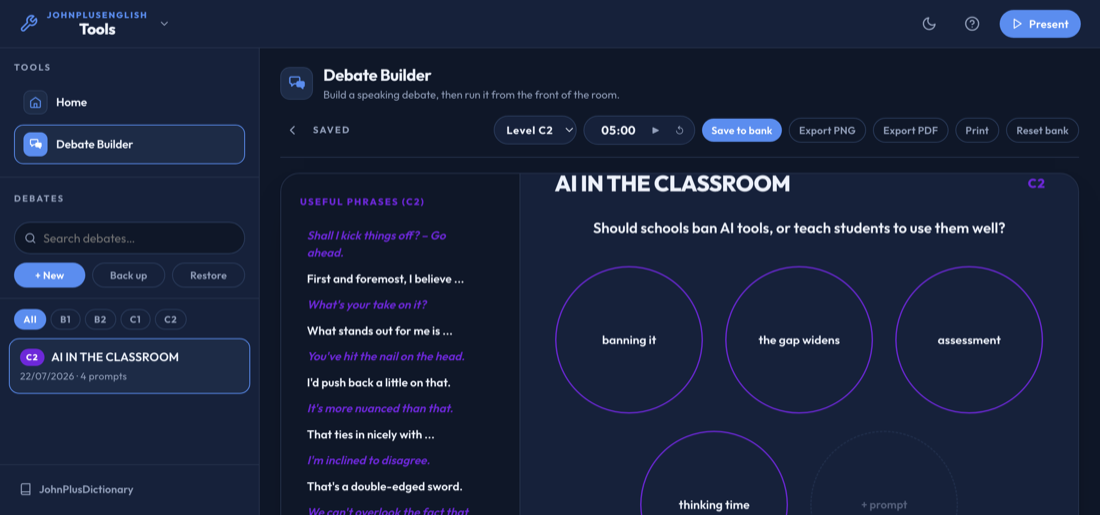
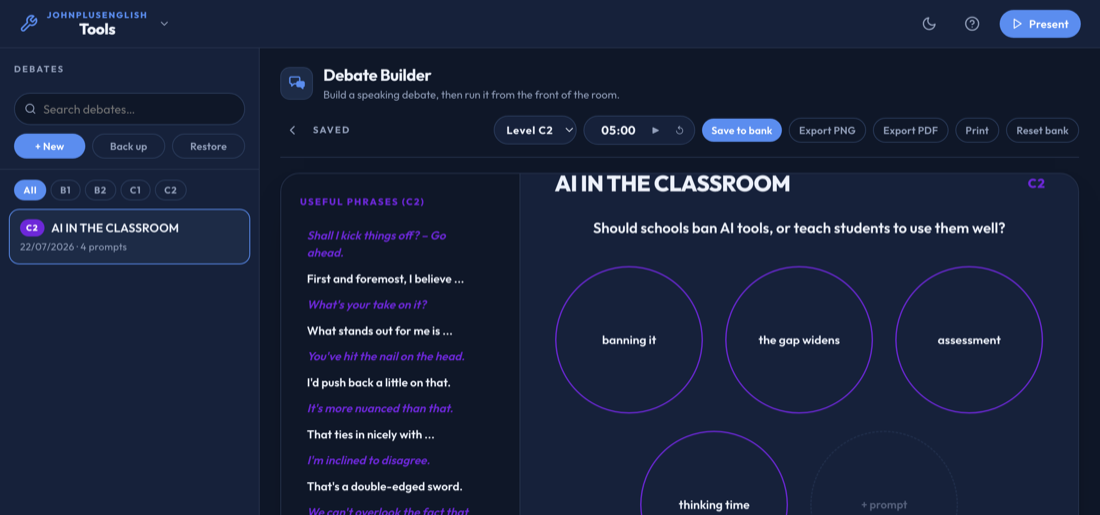
Navigation is the topbar dropdown only
The sidebar Tools list duplicated the dropdown, and the sidebar's dictionary
link duplicated the dropdown's. Both removed. The sidebar is now purely the
tool's own space: search, New, Back up, Restore, level filter and the debate
list.

With no tool open there is nothing for it to hold, so on the home view it
collapses to zero width and the content takes the full page. That rides the
transition already on .app, so it slides rather than jumping, and it uses its
own class rather than the tool's .side-collapsed: John's manual collapse
preference and its stored value are never touched. Verified by collapsing with
the chevron, going home and back, and confirming the preference survived.

The build now asserts nothing goes back in the sidebar and that the dropdown
lists exactly three entries.

Also fixed a silent break this caused: make_preview.py reached the tool by
clicking the sidebar nav item, which no longer exists, so it quietly
photographed the home view. The preview on the home page became a picture of
the home page. It now clicks through the dropdown, and verifies with --dump-dom
that the home view really is hidden before taking the shot, so this fails loudly
next time instead of shipping a recursive screenshot.

diff --git a/index.html b/index.html
@@ -514,32 +514,17 @@ a.btn{text-decoration:none}
 .btn svg{width:14px;height:14px;flex-shrink:0}
 .btn.big svg{width:15px;height:15px}
 
-/* Sidebar nav */
-.tools-nav{padding:14px 16px 12px;border-bottom:1px solid var(--line)}
 .jt-label{font-size:10.5px;letter-spacing:.16em;text-transform:uppercase;
   color:var(--muted);font-weight:700;margin-bottom:9px}
-.tool-item{display:flex;align-items:center;gap:10px;padding:8px 10px;border-radius:11px;
-  border:1px solid transparent;text-decoration:none;color:var(--ink);margin-bottom:3px;
-  transition:background .12s,border-color .12s}
-.tool-item:hover{background:var(--soft)}
-.tool-item.active{background:var(--soft);border-color:var(--accent)}
-.ti-icon{width:28px;height:28px;border-radius:8px;flex-shrink:0;display:grid;place-items:center;
-  background:var(--soft);border:1px solid var(--soft-line);color:var(--accent)}
-.tool-item.active .ti-icon{background:var(--accent);border-color:var(--accent);color:#fff}
-.ti-icon svg{width:15px;height:15px;display:block}
-.ti-name{font-size:13.5px;font-weight:600;letter-spacing:-.01em}
 
-/* The tool's own sidebar controls, shown only while the tool is open. */
+/* The sidebar belongs to the tool. On the home view there is no open tool, so
+   it slides away and the content takes the full width. Uses its own class, not
+   the tool's .side-collapsed, so John's manual collapse preference is untouched.
+   .app already carries transition:grid-template-columns, so this animates. */
 #debatesSection{display:flex;flex-direction:column;flex:1;min-height:0}
 #debatesSection[hidden]{display:none}
-
-/* margin-top:auto keeps this pinned to the bottom on the home view, where the
-   debates section is hidden and nothing else pushes it down. */
-.side-foot{padding:10px 12px 12px;border-top:1px solid var(--line);flex-shrink:0;margin-top:auto}
-.side-foot a{display:flex;align-items:center;gap:8px;text-decoration:none;font-size:12.5px;
-  font-weight:600;color:var(--muted);padding:8px 10px;border-radius:10px;transition:.12s}
-.side-foot a:hover{background:var(--soft);color:var(--accent)}
-.side-foot a svg{width:15px;height:15px;flex-shrink:0}
+.app.jpt-nosidebar{grid-template-columns:0 1fr}
+.app.jpt-nosidebar aside{border-right:none;overflow:hidden;opacity:0;pointer-events:none}
 
 /* Named tool header, identical rhythm in both views so nothing jumps. */
 .tool-head{display:flex;align-items:center;gap:12px;margin-bottom:16px}
@@ -597,7 +582,6 @@ a.btn{text-decoration:none}
 .panel-actions .note{font-size:12.5px;color:var(--muted);font-weight:500}
 
 @media (max-width:900px){
-  .tools-nav{padding:12px 14px 10px}
   .th-text p{display:none}
   .split{grid-template-columns:1fr;gap:24px}
   .panel{padding:22px 18px;border-radius:16px}
@@ -612,7 +596,7 @@ a.btn{text-decoration:none}
   .brand-title .k{display:none}
   .brand-title .b{font-size:14px}
 }
-@media print{.tool-head,.tools-nav,.side-foot,.popmenu{display:none!important}}
+@media print{.tool-head,.popmenu{display:none!important}}
 @media (prefers-reduced-motion:reduce){.view,.popmenu{animation:none}}
 /* /jpt:chrome */
 </style>
@@ -655,17 +639,6 @@ a.btn{text-decoration:none}
 
 <div class="app" id="app">
   <aside>
-    <!-- jpt:toolsnav -->
-    <div class="tools-nav">
-      <div class="jt-label">Tools</div>
-      <a class="tool-item" href="/" data-view="home">
-        <span class="ti-icon"><svg viewBox="0 0 24 24" fill="none" stroke="currentColor" stroke-linecap="round" stroke-linejoin="round" aria-hidden="true" stroke-width="2"><path d="M3 9.5 12 3l9 6.5V20a1.5 1.5 0 0 1-1.5 1.5h-15A1.5 1.5 0 0 1 3 20z"/><path d="M9.5 21.5v-7h5v7"/></svg></span><span class="ti-name">Home</span>
-      </a>
-      <a class="tool-item" href="/debate-builder" data-view="tool">
-        <span class="ti-icon"><svg viewBox="0 0 24 24" fill="none" stroke="currentColor" stroke-linecap="round" stroke-linejoin="round" aria-hidden="true" stroke-width="1.9"><path d="M14.6 3H4.3A1.8 1.8 0 0 0 2.5 4.8v5.9a1.8 1.8 0 0 0 1.8 1.8h.8v3.1l3.3-3.1h6.2a1.8 1.8 0 0 0 1.8-1.8V4.8A1.8 1.8 0 0 0 14.6 3z"/><path d="M20.2 9.6h-6.1A1.6 1.6 0 0 0 12.5 11.2v3.6a1.6 1.6 0 0 0 1.6 1.6h3.6l3 2.7v-2.7h.5a1.6 1.6 0 0 0 1.3-1.6v-3.6a1.6 1.6 0 0 0-1.6-1.6z" fill="currentColor" stroke="currentColor"/></svg></span><span class="ti-name">Debate Builder</span>
-      </a>
-    </div>
-    <!-- /jpt:toolsnav -->
     <div id="debatesSection">
     <div class="side-top">
       <!-- jpt:debateslabel --><div class="jt-label" style="margin-bottom:9px">Debates</div><!-- /jpt:debateslabel -->
@@ -683,13 +656,6 @@ a.btn{text-decoration:none}
     <div class="lvl-filter" id="lvlFilter"></div>
     <div class="side-list" id="sideList"></div>
     </div>
-    <!-- jpt:sidefoot -->
-    <div class="side-foot">
-      <a href="https://johnplusdictionary.com" target="_blank" rel="noopener">
-        <svg viewBox="0 0 24 24" fill="none" stroke="currentColor" stroke-linecap="round" stroke-linejoin="round" aria-hidden="true" stroke-width="2"><path d="M4 19.5A2.5 2.5 0 0 1 6.5 17H20"/><path d="M6.5 2H20v20H6.5A2.5 2.5 0 0 1 4 19.5v-15A2.5 2.5 0 0 1 6.5 2z"/></svg>JohnPlusDictionary
-      </a>
-    </div>
-    <!-- /jpt:sidefoot -->
   </aside>
 
   <main>
@@ -2220,6 +2186,7 @@ if (localStorage.getItem('c2_debate_side_collapsed') === '1') toggleSide();
   var debates  = document.getElementById('debatesSection');
   var menu     = document.getElementById('toolsMenu');
   var brandBtn = document.getElementById('brandBtn');
+  var app      = document.getElementById('app');
   var current  = null;
 
   function setView(name, push) {
@@ -2231,16 +2198,15 @@ if (localStorage.getItem('c2_debate_side_collapsed') === '1') toggleSide();
     toolView.hidden = !tool;
     homeView.hidden = tool;
     if (debates) debates.hidden = !tool;
+    // The sidebar is the tool's; on home it collapses away.
+    if (app) app.classList.toggle('jpt-nosidebar', !tool);
     // Tool-only topbar actions (help, Present) have no meaning on the home view.
     Array.prototype.forEach.call(document.querySelectorAll('.jpt-toolonly'),
       function (el) { el.hidden = !tool; });
 
-    Array.prototype.forEach.call(document.querySelectorAll('[data-view]'), function (el) {
-      var on = el.dataset.view === name;
-      if (el.classList.contains('tool-item')) el.classList.toggle('active', on);
-      if (el.getAttribute('role') === 'menuitem') el.setAttribute('aria-current', String(on));
-      if (on && el.classList.contains('tool-item')) el.setAttribute('aria-current', 'page');
-      else if (el.classList.contains('tool-item')) el.removeAttribute('aria-current');
+    // Navigation is the dropdown only, so this just marks the current entry.
+    Array.prototype.forEach.call(document.querySelectorAll('.pm-item[data-view]'), function (el) {
+      el.setAttribute('aria-current', String(el.dataset.view === name));
     });
 
     document.title = TITLES[name];

diff --git a/build.py b/build.py
@@ -95,18 +95,8 @@ BRAND = f'''<!-- jpt:brand -->
   </div>
   <!-- /jpt:brand -->'''
 
-NAV = f'''<!-- jpt:toolsnav -->
-    <div class="tools-nav">
-      <div class="jt-label">Tools</div>
-      <a class="tool-item" href="/" data-view="home">
-        <span class="ti-icon">{HOME}</span><span class="ti-name">Home</span>
-      </a>
-      <a class="tool-item" href="{TOOL_URL}" data-view="tool">
-        <span class="ti-icon">{PROMPTS}</span><span class="ti-name">Debate Builder</span>
-      </a>
-    </div>
-    <!-- /jpt:toolsnav -->
-    '''
+# Navigation lives in the topbar dropdown only. The sidebar is the tool's own
+# space (its debate list), and collapses away on the home view.
 
 TOOL_HEAD = f'''<!-- jpt:toolhead -->
       <div class="tool-head">
@@ -119,14 +109,7 @@ TOOL_HEAD = f'''<!-- jpt:toolhead -->
       <!-- /jpt:toolhead -->
       '''
 
-FOOT = f'''<!-- jpt:sidefoot -->
-    <div class="side-foot">
-      <a href="https://johnplusdictionary.com" target="_blank" rel="noopener">
-        {BOOK}JohnPlusDictionary
-      </a>
-    </div>
-    <!-- /jpt:sidefoot -->
-  '''
+# The dictionary link is in the dropdown, so the sidebar does not repeat it.
 
 CSS = '''
 /* jpt:chrome */
@@ -165,32 +148,17 @@ a.btn{text-decoration:none}
 .btn svg{width:14px;height:14px;flex-shrink:0}
 .btn.big svg{width:15px;height:15px}
 
-/* Sidebar nav */
-.tools-nav{padding:14px 16px 12px;border-bottom:1px solid var(--line)}
 .jt-label{font-size:10.5px;letter-spacing:.16em;text-transform:uppercase;
   color:var(--muted);font-weight:700;margin-bottom:9px}
-.tool-item{display:flex;align-items:center;gap:10px;padding:8px 10px;border-radius:11px;
-  border:1px solid transparent;text-decoration:none;color:var(--ink);margin-bottom:3px;
-  transition:background .12s,border-color .12s}
-.tool-item:hover{background:var(--soft)}
-.tool-item.active{background:var(--soft);border-color:var(--accent)}
-.ti-icon{width:28px;height:28px;border-radius:8px;flex-shrink:0;display:grid;place-items:center;
-  background:var(--soft);border:1px solid var(--soft-line);color:var(--accent)}
-.tool-item.active .ti-icon{background:var(--accent);border-color:var(--accent);color:#fff}
-.ti-icon svg{width:15px;height:15px;display:block}
-.ti-name{font-size:13.5px;font-weight:600;letter-spacing:-.01em}
 
-/* The tool's own sidebar controls, shown only while the tool is open. */
+/* The sidebar belongs to the tool. On the home view there is no open tool, so
+   it slides away and the content takes the full width. Uses its own class, not
+   the tool's .side-collapsed, so John's manual collapse preference is untouched.
+   .app already carries transition:grid-template-columns, so this animates. */
 #debatesSection{display:flex;flex-direction:column;flex:1;min-height:0}
 #debatesSection[hidden]{display:none}
-
-/* margin-top:auto keeps this pinned to the bottom on the home view, where the
-   debates section is hidden and nothing else pushes it down. */
-.side-foot{padding:10px 12px 12px;border-top:1px solid var(--line);flex-shrink:0;margin-top:auto}
-.side-foot a{display:flex;align-items:center;gap:8px;text-decoration:none;font-size:12.5px;
-  font-weight:600;color:var(--muted);padding:8px 10px;border-radius:10px;transition:.12s}
-.side-foot a:hover{background:var(--soft);color:var(--accent)}
-.side-foot a svg{width:15px;height:15px;flex-shrink:0}
+.app.jpt-nosidebar{grid-template-columns:0 1fr}
+.app.jpt-nosidebar aside{border-right:none;overflow:hidden;opacity:0;pointer-events:none}
 
 /* Named tool header, identical rhythm in both views so nothing jumps. */
 .tool-head{display:flex;align-items:center;gap:12px;margin-bottom:16px}
@@ -248,7 +216,6 @@ a.btn{text-decoration:none}
 .panel-actions .note{font-size:12.5px;color:var(--muted);font-weight:500}
 
 @media (max-width:900px){
-  .tools-nav{padding:12px 14px 10px}
   .th-text p{display:none}
   .split{grid-template-columns:1fr;gap:24px}
   .panel{padding:22px 18px;border-radius:16px}
@@ -263,7 +230,7 @@ a.btn{text-decoration:none}
   .brand-title .k{display:none}
   .brand-title .b{font-size:14px}
 }
-@media print{.tool-head,.tools-nav,.side-foot,.popmenu{display:none!important}}
+@media print{.tool-head,.popmenu{display:none!important}}
 @media (prefers-reduced-motion:reduce){.view,.popmenu{animation:none}}
 /* /jpt:chrome */
 '''
@@ -285,6 +252,7 @@ ROUTER = '''<!-- jpt:router -->
   var debates  = document.getElementById('debatesSection');
   var menu     = document.getElementById('toolsMenu');
   var brandBtn = document.getElementById('brandBtn');
+  var app      = document.getElementById('app');
   var current  = null;
 
   function setView(name, push) {
@@ -296,16 +264,15 @@ ROUTER = '''<!-- jpt:router -->
     toolView.hidden = !tool;
     homeView.hidden = tool;
     if (debates) debates.hidden = !tool;
+    // The sidebar is the tool's; on home it collapses away.
+    if (app) app.classList.toggle('jpt-nosidebar', !tool);
     // Tool-only topbar actions (help, Present) have no meaning on the home view.
     Array.prototype.forEach.call(document.querySelectorAll('.jpt-toolonly'),
       function (el) { el.hidden = !tool; });
 
-    Array.prototype.forEach.call(document.querySelectorAll('[data-view]'), function (el) {
-      var on = el.dataset.view === name;
-      if (el.classList.contains('tool-item')) el.classList.toggle('active', on);
-      if (el.getAttribute('role') === 'menuitem') el.setAttribute('aria-current', String(on));
-      if (on && el.classList.contains('tool-item')) el.setAttribute('aria-current', 'page');
-      else if (el.classList.contains('tool-item')) el.removeAttribute('aria-current');
+    // Navigation is the dropdown only, so this just marks the current entry.
+    Array.prototype.forEach.call(document.querySelectorAll('.pm-item[data-view]'), function (el) {
+      el.setAttribute('aria-current', String(el.dataset.view === name));
     });
 
     document.title = TITLES[name];
@@ -399,6 +366,8 @@ def need(html, needle, what):
 def build(html):
     for tag in ('jpt:brand', 'jpt:toolsnav', 'jpt:sidefoot', 'jpt:toolhead',
                 'jpt:debateslabel', 'jpt:homeview', 'jpt:router', 'jpt:backlink'):
+        # toolsnav / sidefoot are gone but stay listed so a rebuild over an
+        # older output still strips them.
         html = drop(html, tag)
     html = re.sub(r'/\* jpt:chrome \*/.*?/\* /jpt:chrome \*/\n?', '', html, flags=re.S)
     html = html.replace('<div id="debatesSection">\n    ', '').replace(' class="jpt-toolonly"', '')
@@ -426,9 +395,9 @@ def build(html):
     # Sidebar: nav on top, the tool's own controls wrapped so they can be hidden.
     html = need(html, '<aside>', '<aside>')
     html = html.replace('<aside>\n    <div class="side-top">',
-                        '<aside>\n    ' + NAV + '<div id="debatesSection">\n    <div class="side-top">', 1)
+                        '<aside>\n    <div id="debatesSection">\n    <div class="side-top">', 1)
     html = html.replace('<div class="side-list" id="sideList"></div>\n  </aside>',
-                        '<div class="side-list" id="sideList"></div>\n    </div>\n    ' + FOOT + '</aside>', 1)
+                        '<div class="side-list" id="sideList"></div>\n    </div>\n  </aside>', 1)
 
     label = ('<!-- jpt:debateslabel --><div class="jt-label" style="margin-bottom:9px">'
              'Debates</div><!-- /jpt:debateslabel -->\n        ')
@@ -467,8 +436,7 @@ def main():
     out = build(SRC.read_text(encoding='utf-8'))
     OUT.write_text(out, encoding='utf-8')
 
-    for what, tag in [('brand', 'jpt:brand'), ('tools nav', 'jpt:toolsnav'),
-                      ('side foot', 'jpt:sidefoot'), ('tool head', 'jpt:toolhead'),
+    for what, tag in [('brand', 'jpt:brand'), ('tool head', 'jpt:toolhead'),
                       ('debates label', 'jpt:debateslabel'), ('home view', 'jpt:homeview'),
                       ('router', 'jpt:router')]:
         assert out.count(f'<!-- {tag} -->') == 1, f'{what} not injected exactly once'
@@ -482,8 +450,11 @@ def main():
     assert '<span class="b">Tools</span>' in out, 'brand should read Tools, not the tool name'
     assert out.index('jpt:toolhead') < out.index('id="debateCard"'), 'tool head is after the card'
     assert out.index('jpt:homeview') < out.index('id="cardHome"'), 'home view is after the tool pane'
+    assert 'tools-nav' not in out and 'side-foot' not in out, \
+        'navigation is the dropdown only; nothing goes back in the sidebar'
+    assert out.count('class="pm-item"') == 3, 'dropdown should list home, the tool and the dictionary'
     for dash in ('—', '–'):
-        assert dash not in CSS + BRAND + NAV + FOOT + TOOL_HEAD + ROUTER + TITLE + DESC, \
+        assert dash not in CSS + BRAND + TOOL_HEAD + ROUTER + TITLE + DESC, \
             'dash crept into injected copy'
         assert dash not in HOME_TPL.read_text(encoding='utf-8'), 'dash in the home template'
 

diff --git a/make_preview.py b/make_preview.py
@@ -11,6 +11,7 @@ Needs Google Chrome and a local server; it starts and stops its own.
 """
 import http.server
 import pathlib
+import re
 import shutil
 import socketserver
 import subprocess
@@ -31,10 +32,16 @@ SEED = """
   function go() {
     try {
       // The temp copy is served from its own path, so the router lands on the
-      // home view. Switch to the tool through the nav, the same way a visitor
-      // would, rather than reaching into the router.
-      var navItem = document.querySelector('.tool-item[data-view="tool"]');
-      if (navItem) navItem.click();
+      // home view. Switch to the tool the same way a visitor would, through the
+      // topbar dropdown, rather than reaching into the router.
+      var open = document.getElementById('brandBtn');
+      if (open) open.click();
+      var item = document.querySelector('.pm-item[data-view="tool"]');
+      if (!item) throw new Error('no dropdown entry for the tool; preview would show the home view');
+      item.click();
+      if (!document.getElementById('homeView').hidden) {
+        throw new Error('still on the home view after clicking through');
+      }
 
       var d = state.debates[state.debates.length - 1];
       d.title    = 'AI IN THE CLASSROOM';
@@ -74,11 +81,28 @@ def main():
             tmp = ROOT / f'_pv-{theme}.html'
             i = base.lower().rfind('</body>')
             tmp.write_text(base[:i] + SEED.replace('__THEME__', theme) + base[i:], encoding='utf-8')
+            url = f'http://127.0.0.1:{PORT}/_pv-{theme}.html'
+
+            # Confirm the seed really landed on the tool before photographing it.
+            # It once silently shot the home view, giving a preview of the page
+            # the preview sits on, because the element it clicked had been renamed.
+            dom = subprocess.run([CHROME, '--headless', '--disable-gpu', '--dump-dom',
+                                  '--virtual-time-budget=7000', url],
+                                 check=True, capture_output=True, text=True).stdout
+            hidden = re.search(r'<div class="main-inner view" id="homeView"([^>]*)>', dom)
+            if not hidden:
+                tmp.unlink(missing_ok=True)
+                raise SystemExit('make_preview: could not find the home view in the page')
+            if 'hidden' not in hidden.group(1):
+                tmp.unlink(missing_ok=True)
+                raise SystemExit('make_preview: the seed did not reach the tool view. '
+                                 'The preview would show the home page. Check the '
+                                 'dropdown selector in SEED.')
+
             raw = ROOT / f'_pv-{theme}.png'
             subprocess.run([CHROME, '--headless', '--disable-gpu', '--hide-scrollbars',
                             '--force-device-scale-factor=2', '--window-size=1280,600',
-                            f'--screenshot={raw}', '--virtual-time-budget=7000',
-                            f'http://127.0.0.1:{PORT}/_pv-{theme}.html'],
+                            f'--screenshot={raw}', '--virtual-time-budget=7000', url],
                            check=True, capture_output=True)
             out = ASSETS / f'debate-builder-{theme}.png'
             subprocess.run(['sips', '-Z', '1100', str(raw), '--out', str(out)],